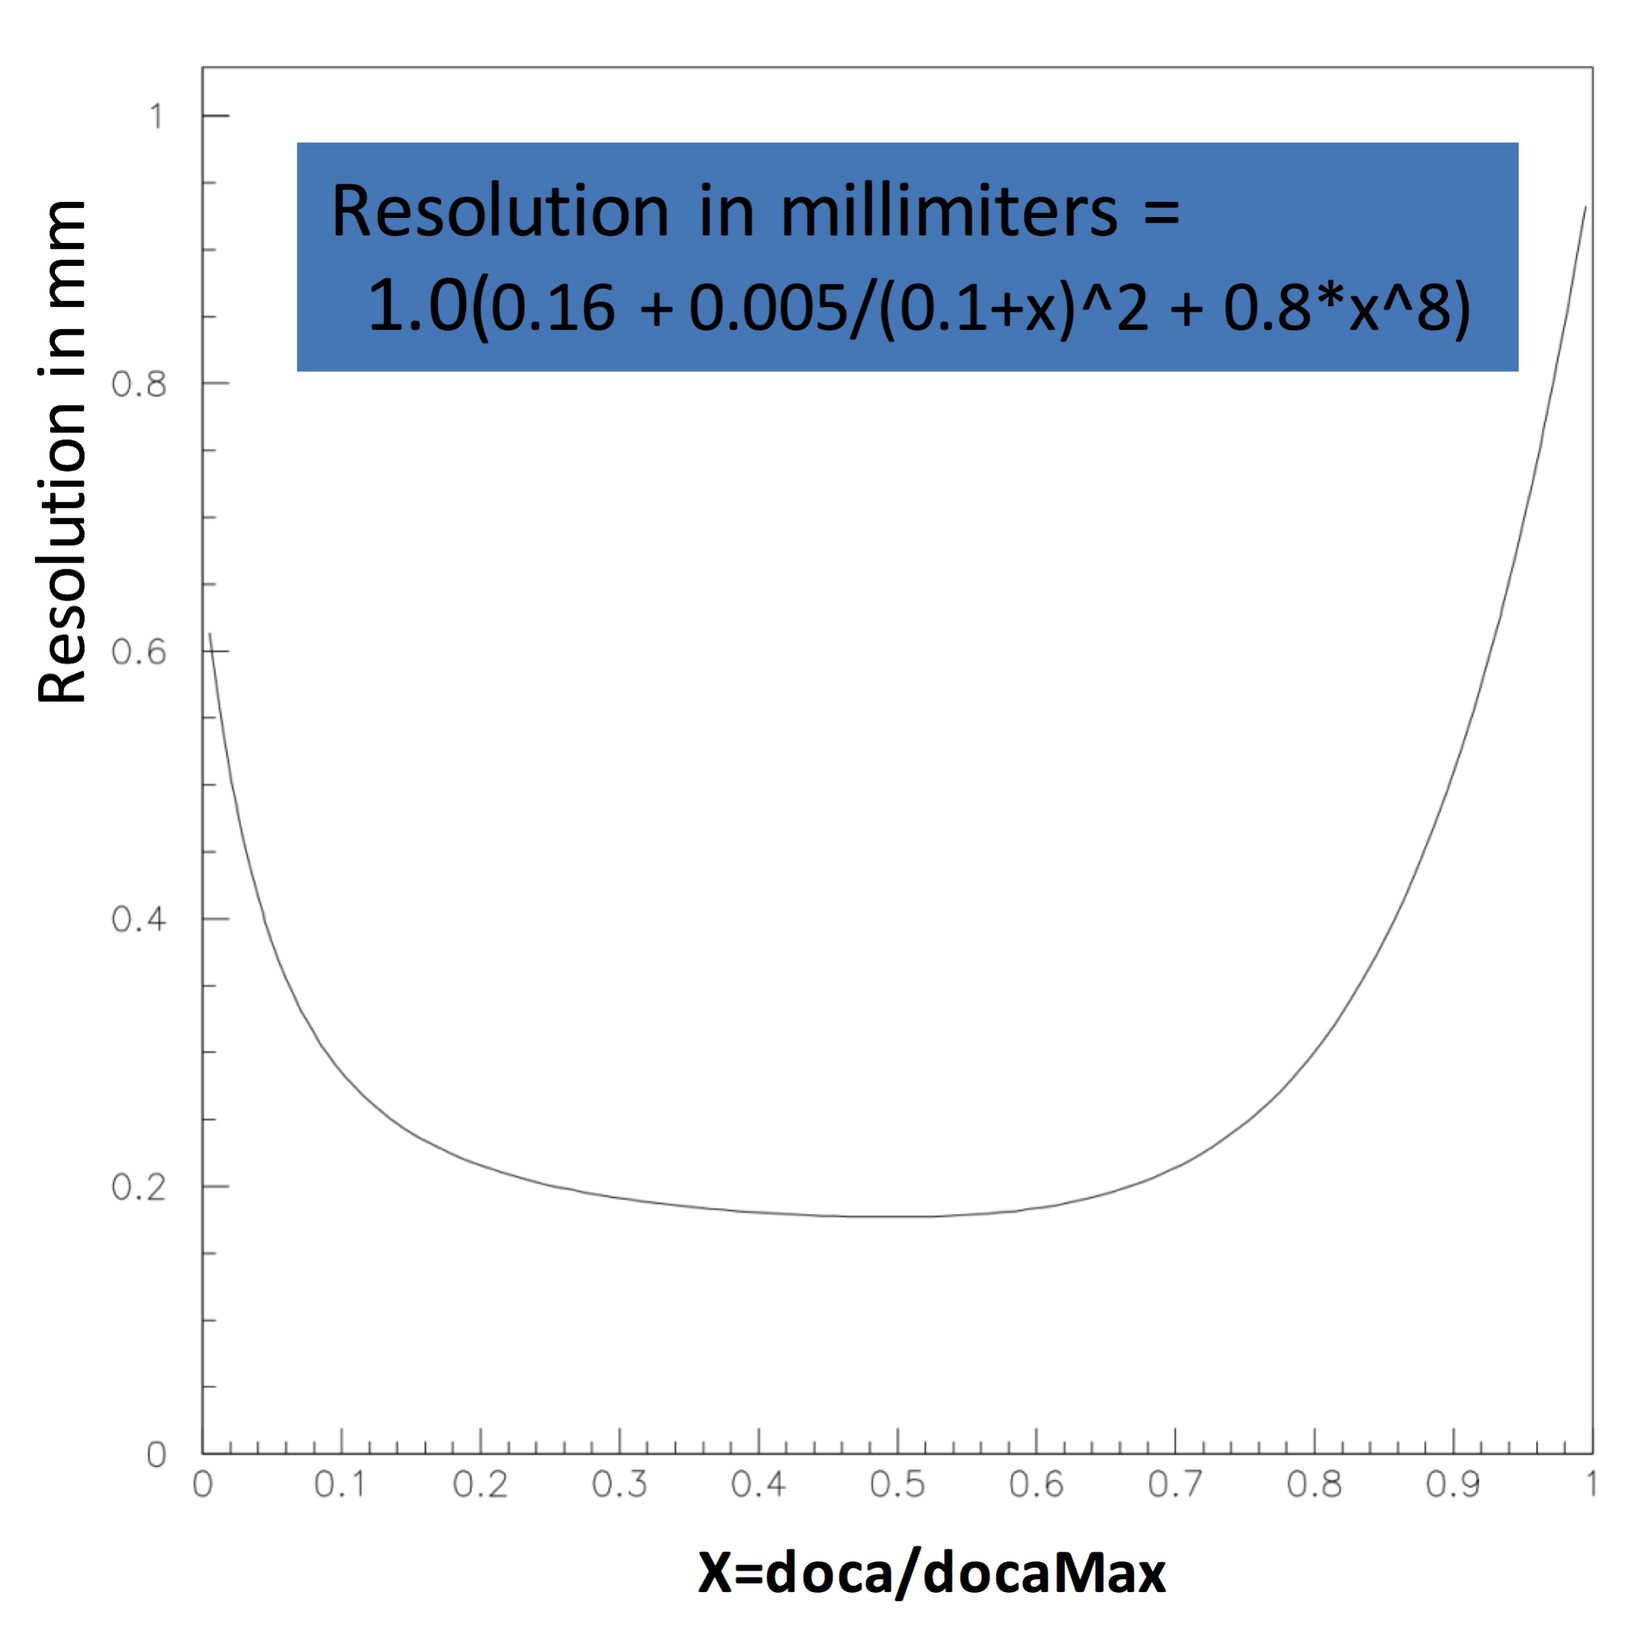
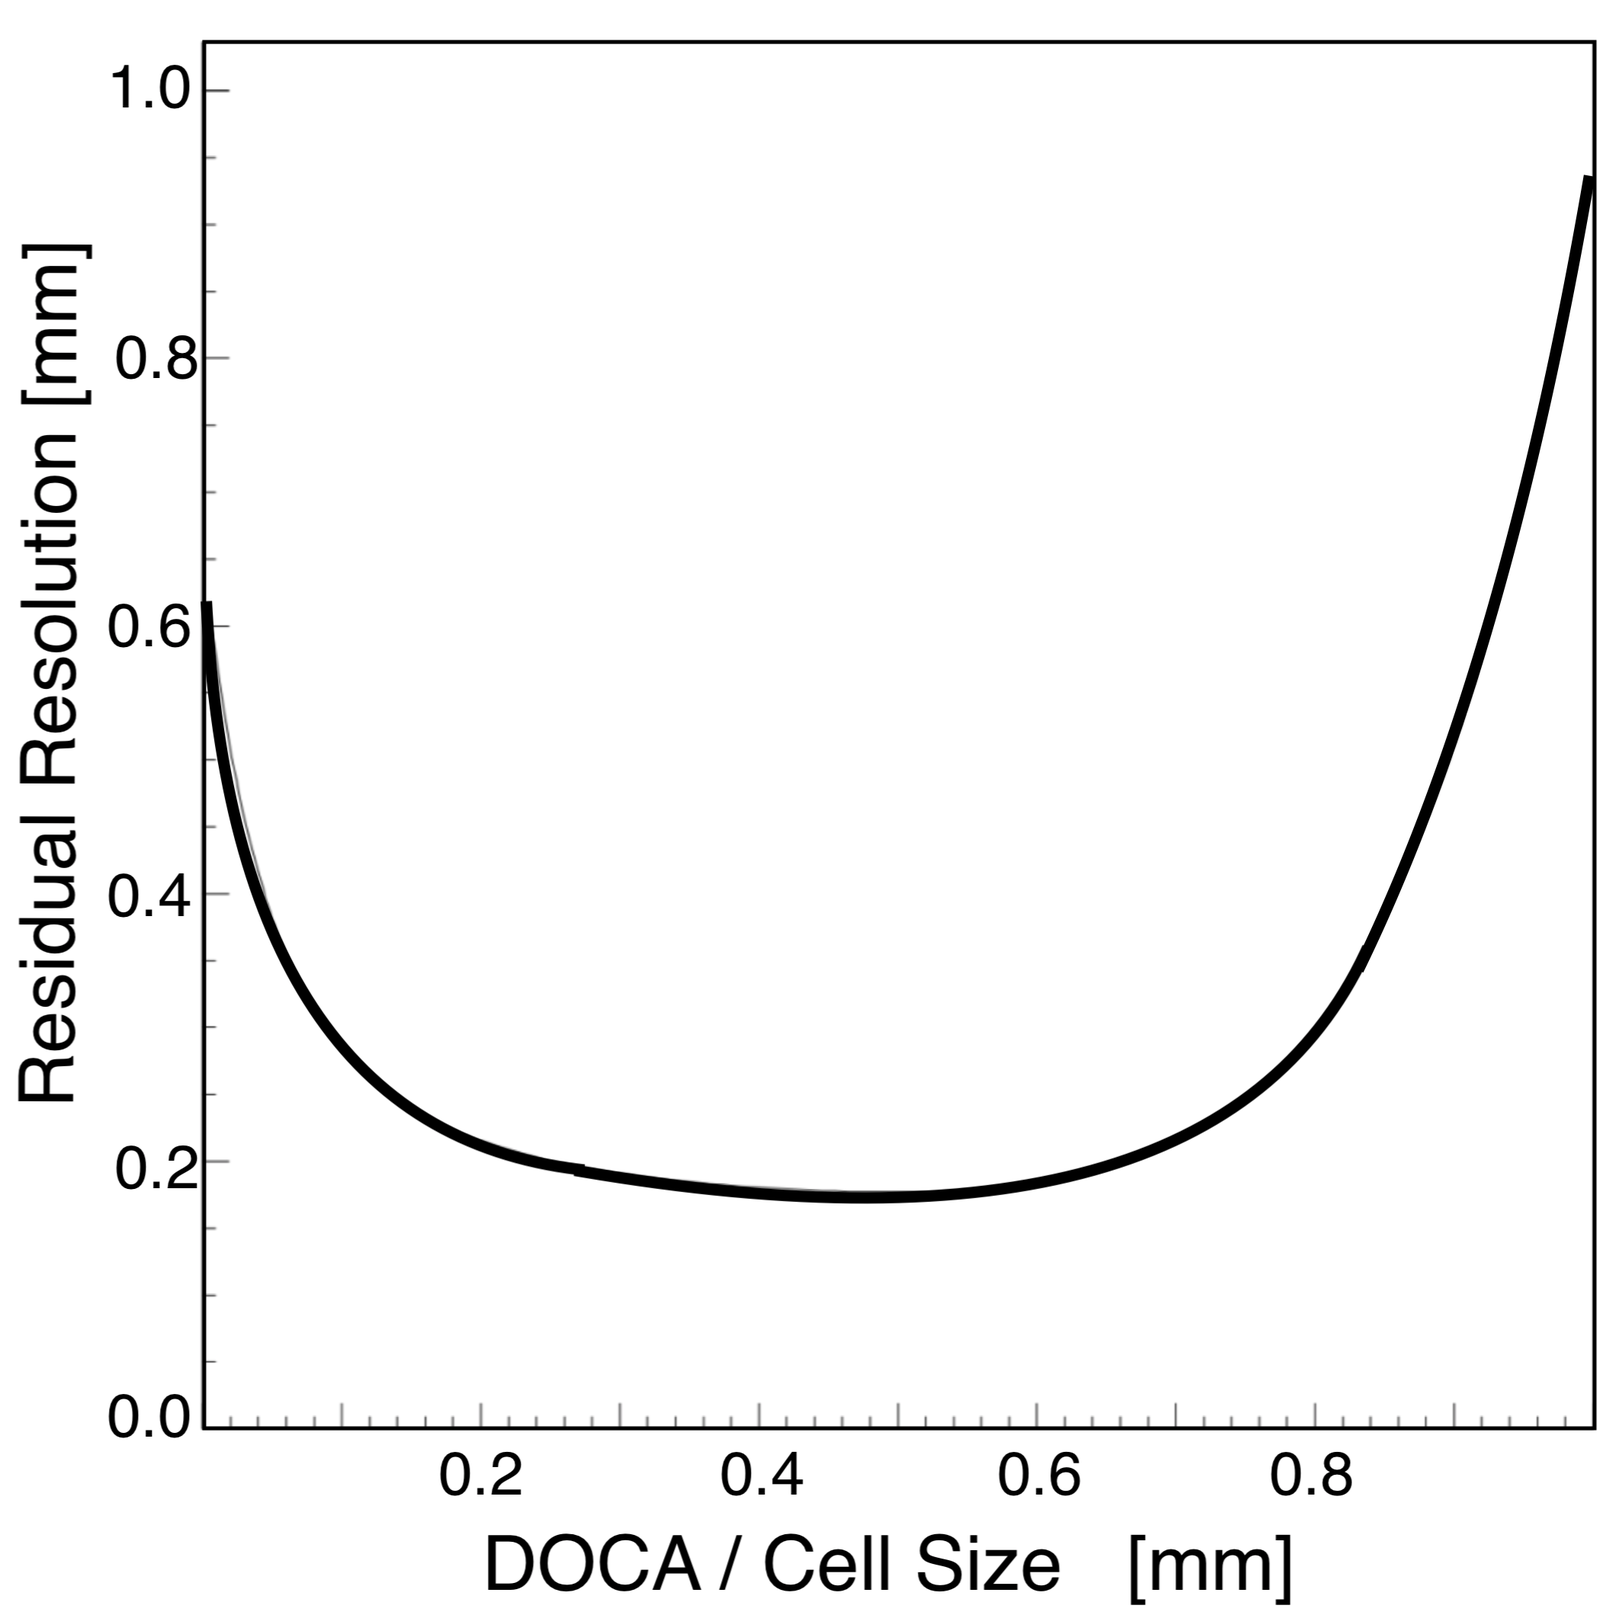
learned abt \circ. Also, DC figures and text corrections

diff --git a/simulations/dc.tex b/simulations/dc.tex
@@ -5,66 +5,70 @@
 The DC geometry is implemented through the COATJAVA geometry service.
 The service provides the Geant4 definitions that are read by the GEMC perl API to build the geometry database.
 
-For each sector, there are three drift chambers: one in front of the torus, one between the torus coils
-and one following the torus.  These three chambers are referred to as different ``regions''.
+For each of the six sectors on the CLAS12 Forward Detector, there are three drift chambers: one in front of the torus,
+one between the torus coils, and one after the torus.  These three chambers are referred to as different ``regions''.
 The chambers are strung with the wires arranged in 12 internal layers.
-Each layer is a generic G4Trapezoid, tilted by $+6^O$ or $-6^O$ depending if they are in the first or second
+Each layer is a generic G4Trapezoid, tilted by +6$^{\circ}$ or -6$^{\circ}$ depending if they are in the first or second
 superlayer of a region.
 The 12 layers in each region (6 per superlayer) are placed in a region mother volume made of air, see \F{dcGeometry}.
-The layers are assigned the $CO_2$ material and associated with the DC hit process routine.
+The layers are assigned the DC gas mixture: 90$\%$ Argon / 10$\%$ CO$_2$. Each layer is associated with the DC hit process routine.
 The wire identification is performed in the Process ID routine.
 
-\begin{figure}
+\begin{figure}[h]
 	\centering
 	\includegraphics[width=0.99\columnwidth,keepaspectratio]{img/dcGeometry.png}
-	\includegraphics[width=0.99\columnwidth,keepaspectratio]{img/dcDetail.png}
-	\caption{Top: the GEMC implementation of the DC geometry. The red trapezoids are the mother volumes corresponding to DC regions 1, 2 and 3. The cyan track is an electron, hitting the various
-		      layers inside each region (a red dot / layer is a hit). Bottom: a zoom in near the beamline shows the Stereo angle layers. Six layers represent a DC superlayer.}
+%	\includegraphics[width=0.99\columnwidth,keepaspectratio]{img/dcDetail.png}
+	\caption{The GEMC implementation of the DC geometry.
+             The trapezoids are the mother volumes corresponding to DC regions 1, 2, and 3. The track is negative pion,
+			 hitting the various layers inside each region. The hit are indicated by the black markers. Due to the high DC
+             efficiency most tracks produce at least one hit each layer. The wire inefficencies are incorporated in the simulation parameters. }
 	\label{fig:dcGeometry}
 \end{figure}
 
-
-\subsubsection{Geometry Location on GitHub}
 The Github location of the GEMC perl API script is \url{https://github.com/gemc/detectors/tree/master/clas12/dc}.
-The java geometry service is at \url{https://github.com/JeffersonLab/clas12-offline-software/blob/development/common-tools/clas-jcsg/src/main/java/org/jlab/detector/geant4/v2/DCGeant4Factory.java}.
+The java geometry service is at
+\url{https://github.com/JeffersonLab/clas12-offline-software/blob/development/common-tools/clas-jcsg/src/main/java/org/jlab/detector/geant4/v2/DCGeant4Factory.java}.
 
 \subsection{Process ID}
-At each Geant4 step, the local vertical position $y$ in the tilted g4Trap is computed. Knowing the distance
-between each wire $\delta Y$ (given by the total height of the trapezoid divided by the number of wires, $112$), which is a constant as we're not taking into
-account wire sagging, the wire ID is given by $n_i = y / \delta y$.
+At each Geant4 step, the local vertical position $y$ in the DC layer volume is computed. Knowing the distance
+between each wire $\delta Y$ (given by the total height of the trapezoid divided by the number of wires, $112$),
+The wire sagging due to gravity and mechanical deflections of the wire endplates due to the tension load is not taken into account.
+The wire ID is given by $n_i = y / \delta y$.
 
 \subsection{Digitization}
 
-There is no ADC calculation.
+First, the distance of closest approach ($DOCA$) is extrapolated for the hit.
+At each Geant4 step, the distance of the track from the wire is calculated.
+The $DOCA$ is extracted among the points with energy deposited larger than 50 eV,
+for which the sum of the step time + $DOCA$/DV (where DV is the drift velocity) is minimal.
 
-First, the distance of closest approach $DOCA$ is extrapolated for the hit. At each Geant4 step, the distance of the track from the wire is calculated.
-The $DOCA$ is extracted among the points with energy deposited larger than $50 eV$, for which the sum of the step time + $DOCA / DV$ (where DV is the drift velocity) is minimal.
-
-An initial time $T_i$ is calculated with a time to distance function which is the inverse of what extrapolated in calibration and used in reconstruction to go from TDC to $DOCA$.
+An initial time $T_i$ is calculated with a time to distance function that is the inverse of
+what is determined from calibration and used in reconstruction to go from TDC to $DOCA$.
 The function takes into account:
 
 \begin{itemize}
-	\item the distance from the wire, in cm
-	\item the cell size in superlayer
-	\item the polar angle of the track
-	\item magnitude of field in Tesla
+	\item the distance from the wire, in cm;
+	\item the cell size in superlayer;
+	\item the polar angle of the track;
+	\item magnitude of field in Tesla.
 \end{itemize}
 
-A time walk correction function is applied to $T_i$ that includes discrete ionization effects based on the following input:
+A time walk correction function $T_w$ is applied to $T_i$ that includes discrete ionization effects based on the following input:
 
 \begin{itemize}
-	\item the distance from the wire, in cm
-	\item the cell size in superlayer
-	\item an adjustable factor (in mm) times $beta^2$ of the particle, the factor is adjusted according to data at small distances from the wire
-	\item a parameter to adjust the matching between the two time walk distributions
-	\item the velocity of the particle
+	\item the distance from the wire, in cm;
+	\item the cell size in superlayer;
+	\item an adjustable factor (in mm) times $\beta^2$ of the particle (the square of the particle speed).
+	      The factor is adjusted according to data at small distances from the wire;
+	\item the velocity of the particle.
 \end{itemize}
 
 The resulting $T_w$ is then used in a Landau-function to mimic the detector response function.
 
 An intrinsic random time walk correction $\sigma_{TW}$ due to multiple scattering is calculated and the time is smeared with
 a Gaussian function using $\sigma_{TW}$ as the resolution.
-Finally, a random number is thrown (between 0 and 1) and if it's above the efficiency function, calculated based on $DOCA$, the hit is rejected.
+A random number is thrown (between 0 and 1) and if it is above the efficiency function, calculated based on $DOCA$, the hit is rejected.
+Finally, the timing is smeared using the calibrated residual versus $DOCA$ function, see \F{dcResolution}.
 
 \begin{figure}
 	\centering
@@ -73,25 +77,23 @@ Finally, a random number is thrown (between 0 and 1) and if it's above the effic
 	\label{fig:dcResolution}
 \end{figure}
 
-
-
 The digitized output bank variables are summarized in Table \ref{tab:dcBank}.
 
 \begin{table}[h]
 	\begin{center}
 		\begin{tabular}{| c | c | c |}
 			\hline \hline
-			Variable         & Description  & Tag  \\
+			Variable   & Description \\
 			\hline
-               sector  &                                      sector index  &    1   \\
-                layer  &                                       layer index  &    2   \\
-                 wire  &                                        wire index  &    3   \\
-                  tdc  &                                         tdc value  &    4   \\
-                   LR  & Left/Right ambiguity                               &    5   \\
-                 doca  & 2D distance of closest approach                    &    6   \\
-                sdoca  &                                      smeared doca  &    7   \\
-                 time  &              doca / drift velocity                 &    8   \\
-                stime  &             sdoca / drift velocity                 &    9   \\
+               sector  &                    sector index   \\
+                layer  &                     layer index   \\
+                 wire  &                      wire index   \\
+                  tdc  &                       tdc value   \\
+                   LR  &            Left/Right ambiguity   \\
+                 doca  & 2D distance of closest approach   \\
+                sdoca  &                    smeared doca   \\
+                 time  &           doca / drift velocity   \\
+                stime  &          sdoca / drift velocity   \\
 			\hline \hline
 		\end{tabular}
 	\end{center}
@@ -99,12 +101,8 @@ The digitized output bank variables are summarized in Table \ref{tab:dcBank}.
 \end{table}
 
 
-\subsubsection{Time Window}
-
-The time window  of the DC is set to 500 ns: all geant4 steps within the same cell and time window will be collected on one hit.
-
-
-\subsubsection{Process Routine Git Repository Location}
+The simulation time window of the DC is set to 500 ns: all geant4 steps within the same cell and time window will be collected on one hit.
+The actual electronic time window is set to 250, 500 and 750 ns for Regions 1, 2, and 3 respectively. This must be taken into account
 The DC hit process routine location in git is \url{https://github.com/gemc/source/blob/master/hitprocess/clas12/dc_hitprocess.cc}
 
 
@@ -113,19 +111,23 @@ The DC hit process routine location in git is \url{https://github.com/gemc/sourc
 A detailed study of the background rates coming from beam interacting with the target was done to ensure that the DC occupancy stays
 within limits that do not affect the reconstruction efficiency, typically below $5\%$.
 
-Given the nominal operating luminosity $L=10^{35} cm^{-2}s^{-1}$, and the liquid hydrogen target of $5 cm$, the beam electron rates
-is $R=4.7 \times 10^{11} Hz$. This corresponds to around 124,000 electrons in the DC 250 ns time window of region 1.
+Given the nominal operating luminosity $L=10^{35}$ cm$^{-2}$s$^{-1}$, and the liquid-hydrogen target length of 5 cm, the beam electron rate
+is R=4.7 $\times$ 10$^{11}$ Hz. This corresponds to around 124,000 electrons in the DC 250 ns time window of Region 1.
 
 Various analyses \cite{targetStudy}, \cite{clas12Beamline}, \cite{clas12Background}, were performed using 124,000 electrons / event
 to study the DC occupancy response to variations of hardware position and beamline configurations.
-The results are summarized in \F{dcOccupancy}.
+The results are summarized in \F{dcOccupancy}. The highest DC occupancy are in Region 1. The source is mostly electromagnetic background from the target
+and beamline elements. Region 2 and 3 are shielding against this background by the torus magnetic field. Region 3 is exposed to radiation coming from
+the interactions of the size-increasing beam (due to interactions in the target) with torus components (especially the most downstream elements).
+In general the occupancy in the DC affects the track reconstruction efficiency. A value of 3$\%$ occupancy in Region 1
+is considered an optimal compromise between luminosity and reconstruction efficiency, see \cite{reco2019}.
 
 \begin{figure}
 	\centering
 	\includegraphics[width=0.99\columnwidth,keepaspectratio]{img/dcOccupancy.png}
-	\caption{Results for DC rates for electron in-bending (left column) and out-bending (right column).
-				Top: the occupancies are below $3\%$ for region 1 and below $1.2\%$ for region 3. Bottom: layer
-				versus wire hit distribution: the two torus polarities show very similar distributions.}
+	\caption{Results for DC rates for electron in-bending (left column) and out-bending torus field (right column).
+		     Top: the occupancies are below $3\%$ for region 1 and below $1.2\%$ for region 3. Bottom: layer
+		     versus wire hit distribution: the two torus polarities show very similar distributions.}
 	\label{fig:dcOccupancy}
 \end{figure}
 

diff --git a/ltcc/wc.tex b/ltcc/wc.tex
@@ -33,7 +33,7 @@ Winston cones (WCs) are used to collect light onto the PMTs. In the LTCC there a
 	\centering
 	\includegraphics[width=0.98\columnwidth,keepaspectratio]{img/wcSetup.png}
 	\caption{Setup to measure the WC reflectivity. The wavelength of light from a deuterium lamp was measured using a monochromator and split in two
-            light beams, each with calibrated intensity. One of the light beams impinged on the WC at a typical angle of 12$^0$,
+            light beams, each with calibrated intensity. One of the light beams impinged on the WC at a typical angle of 12$^{\circ}$,
             while the other was directed at the reference PMT. The reflectivity was measured in different spots for a sample of WCs.  The results proved
             to be independent of the spot location. }
 	\label{fig:wcSetup}
@@ -42,7 +42,7 @@ Winston cones (WCs) are used to collect light onto the PMTs. In the LTCC there a
 The reflectivity of the WCs showed quantitatively the same degradation as the mirrors. However, due to their shape, re-coating of the WC is more costly
 than the mirrors and the LTCC budget allowed refurbishing only 160 out of 216 total WCs.
 A setup on an optical bench to measure the reflectivity for all the cones at wavelengths between 200 and 400 nm was designed to
-accept incident shallow angles of 10$^0$-15$^0$ (typical incidence angle based on simulation studies), see \F{wcSetup}.
+accept incident shallow angles of 10$^{\circ}$-15$^{\circ}$ (typical incidence angle based on simulation studies), see \F{wcSetup}.
 The typical reflectivity of a poor WC vs wavelength is shown in \F{wcStatusBefore} (top).
 All 216 WCs were studied, and the average reflectivity results are shown in \F{wcStatusBefore} (bottom).
 These data allowed cataloging of the quality of the WCs to select the worst ones to refurbish.

diff --git a/simulations/ft.tex b/simulations/ft.tex
@@ -55,24 +55,24 @@ The digitized output bank variables are summarized in Table \ref{tab:ftBank}
 	\begin{center}
 		\begin{tabular}{| c | c | c |}
 			\hline \hline
-			Variable         & Description    \\
+			Variable            & Description      \\
 			\hline
-		            & Tracker  &   \\
+		                         & Tracker         \\
 			\hline
-                       sector  &     sector     \\
-                        layer  &      layer     \\
-                    component  &  component     \\
-                          ADC  &        ADC     \\
+                         sector  &     sector      \\
+                          layer  &      layer      \\
+                      component  &  component      \\
+                            ADC  &        ADC      \\
 			\hline
-		          & Hodoscope  &   \\
+		                         & Hodoscope       \\
 			\hline
-					   sector  &     sector     \\
-                        layer  &      layer     \\
-                    component  &  component     \\
-                          ADC  &        ADC     \\
-                          tdc  &        TDC     \\
+						 sector  &     sector      \\
+                          layer  &      layer      \\
+                      component  &  component      \\
+                            ADC  &        ADC      \\
+                            tdc  &        TDC      \\
 			\hline
-				  & Calorimeter  &   \\
+								 & Calorimeter     \\
 			\hline
 				         sector  &     sector      \\
 				   	      layer  &      layer      \\

diff --git a/ltcc/box.tex b/ltcc/box.tex
@@ -68,7 +68,7 @@ The cables are anchored with stainless steel springs with tension varying from 0
 The spine was tested by mounting a laser on the box. The laser line was focused through the elliptical
 and hyperbolic mirrors to a target in the middle of the covered face of a PMT.
 In order to verify that the detector transportation and/or installation would not break the spine
-nor affect the mirror alignment, the box was lifted, rotated back and forth by 90$^0$, and subjected
+nor affect the mirror alignment, the box was lifted, rotated back and forth by 90$^{\circ}$, and subjected
 to small vibrations, see \F{spineTest}. The focused spot on the PMT did not change with any of these movement and the spine
 compensated for the box wall deformations.
 

diff --git a/simulations/magnets.tex b/simulations/magnets.tex
@@ -85,7 +85,7 @@ movements or imperfections \cite{GhoshalSolenoid}.
 
 
 The field map has 251 points along the z-axis, from 1m to 3m. It has 2501 points in the transverse coordinate, from 0 to 5m.
-It has 16 azimuthal points from $0$ to $30^0$. The field grid values are linearly interpolated to the (x,y,z) coordinate requested by geant4.
+It has 16 azimuthal points from 0$^{\circ}$ to 30$^{\circ}$. The field grid values are linearly interpolated to the (x,y,z) coordinate requested by geant4.
 
 The torus field in mid sector is perpendicular to the z-axis and is typically $2.058$ Tesla.
 Table \ref{tab:torMap} shows the field map ascii data structure.

diff --git a/simulations/bst.tex b/simulations/bst.tex
@@ -52,7 +52,7 @@ The java geometry service is at
 
 At each Geant4 step, the local coordinates in the sensor volume are used to calculate the strip ID.
 The algorithm includes: the dead zone around the sensor, the pitch between the strips (156 $\mu$m) and the angle
-between the strips that varies from 0 (strip $\# 1$) to 3$^0$ (for strip  $\# 256$). A showcase of the strip ID assignment
+between the strips that varies from 0 $^{\circ}$(strip $\# 1$) to 3$^{\circ}$ (for strip  $\# 256$). A showcase of the strip ID assignment
 is summarized in \F{processID}.
 
 \begin{figure}

diff --git a/ltcc/requirements.tex b/ltcc/requirements.tex
@@ -5,7 +5,7 @@ The LTCC requirements to allow for an adequate pion/kaon discrimination include:
 
 
 \begin{itemize}
-	\item Maximizing the coverage in each of the six sectors up to an angle of 30$^0$;
+	\item Maximizing the coverage in each of the six sectors up to an angle of 30$^{\circ}$;
 	\item Minimizing the radiation length in the active area of CLAS12;
 	\item Fitting the LTCC box in the available space between the Drift Chambers \cite{dc2019} and the Forward Time-Of-Flight \cite{ftof2019};
 	\item Produce a signal for pions in the momentum range $4-8$ GeV.
